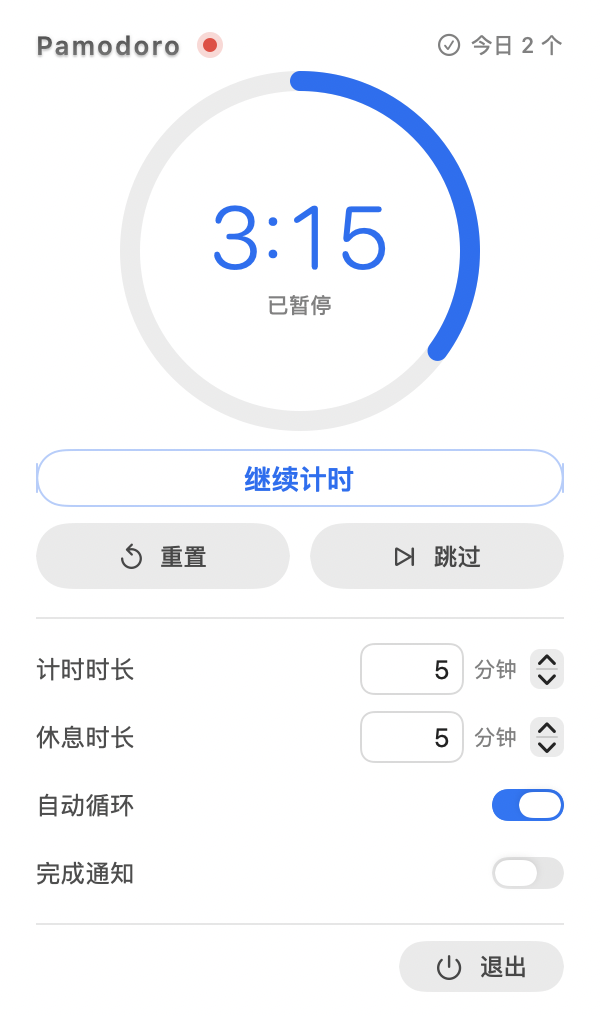
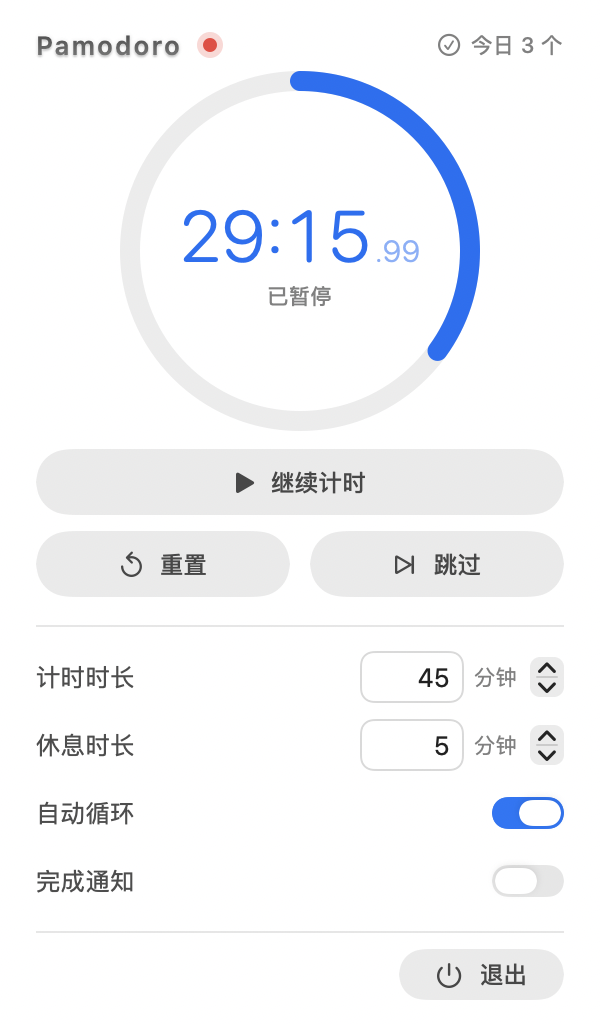
开始按钮与次级按钮统一胶囊样式；状态栏换成 8bit 像素计时器与咖啡杯

diff --git a/Sources/main.swift b/Sources/main.swift
@@ -41,12 +41,10 @@ final class AppDelegate: NSObject, NSApplicationDelegate, NSPopoverDelegate {
     private static var statusItemLength: CGFloat {
         let font = NSFont.monospacedDigitSystemFont(ofSize: 12.5, weight: .regular)
         let textWidth = ceil(NSAttributedString(string: "888:88", attributes: [.font: font]).size().width)
-        let emojiWidth = ceil(NSAttributedString(string: "☕ ", attributes: [.font: font]).size().width)
         let timerIconWidth = ceil(StatusIcon.timer.size.width)
-        // 计时态：图标 + 时间；休息态：咖啡 emoji + 时间
-        let runningWidth = timerIconWidth + textWidth
-        let restWidth = emojiWidth + textWidth
-        return max(runningWidth, restWidth) + 20
+        let coffeeIconWidth = ceil(StatusIcon.coffee.size.width)
+        // 两种状态都是「图标 + 时间」，取更宽的一档
+        return max(timerIconWidth, coffeeIconWidth) + textWidth + 20
     }
 
     // MARK: - 状态栏
@@ -56,12 +54,14 @@ final class AppDelegate: NSObject, NSApplicationDelegate, NSPopoverDelegate {
 
         let isRest = engine.phase == .rest
         let timeText = PomodoroEngine.format(engine.remaining)
-        let title = isRest ? "☕ \(timeText)" : timeText
-        if title != lastTitle {
-            lastTitle = title
+        if timeText != lastTitle {
+            lastTitle = timeText
             let font = NSFont.monospacedDigitSystemFont(ofSize: 12.5, weight: .regular)
-            button.attributedTitle = NSAttributedString(string: title, attributes: [.font: font])
-            button.image = isRest ? nil : StatusIcon.timer
+            button.attributedTitle = NSAttributedString(string: " " + timeText, attributes: [.font: font])
+        }
+        let icon = isRest ? StatusIcon.coffee : StatusIcon.timer
+        if button.image !== icon {
+            button.image = icon
         }
         button.toolTip = "番茄钟 · \(engine.stateCaption)"
     }
@@ -251,6 +251,31 @@ final class AppDelegate: NSObject, NSApplicationDelegate, NSPopoverDelegate {
                 NSLog("POMODORO_QUIT sound-then-terminate")
                 self?.quitWithSound()
             }
+        }
+
+
+        if let prefix = env["POMODORO_DUMP_ICONS"] {
+            let icons: [(String, NSImage)] = [("timer", PixelIcon.timer), ("coffee", PixelIcon.coffee)]
+            for (name, icon) in icons {
+                let scale: CGFloat = 8
+                let size = NSSize(width: icon.size.width * scale, height: icon.size.height * scale)
+                let rep = NSBitmapImageRep(bitmapDataPlanes: nil,
+                                           pixelsWide: Int(size.width), pixelsHigh: Int(size.height),
+                                           bitsPerSample: 8, samplesPerPixel: 4, hasAlpha: true,
+                                           isPlanar: false, colorSpaceName: .deviceRGB,
+                                           bytesPerRow: 0, bitsPerPixel: 0)!
+                NSGraphicsContext.saveGraphicsState()
+                NSGraphicsContext.current = NSGraphicsContext(bitmapImageRep: rep)
+                NSGraphicsContext.current?.shouldAntialias = false
+                NSColor.white.setFill()
+                NSRect(origin: .zero, size: size).fill()
+                icon.draw(in: NSRect(origin: .zero, size: size))
+                NSGraphicsContext.restoreGraphicsState()
+                if let png = rep.representation(using: .png, properties: [:]) {
+                    try? png.write(to: URL(fileURLWithPath: "\(prefix)-\(name).png"))
+                }
+            }
+            NSLog("POMODORO_DUMP_ICONS wrote \(prefix)-*.png")
         }
 
         if let prefix = env["POMODORO_DUMP_SFX"] {

diff --git a/Sources/PixelIcon.swift b/Sources/PixelIcon.swift
@@ -1,0 +1,86 @@
+import AppKit
+
+/// 8-bit 像素图标：用 16×16 的字符画定义，渲染成模板位图（每格 2×2 设备像素，2x 屏上不模糊）。
+enum PixelIcon {
+
+    /// 计时器
+    static let timer = make(timerArt)
+
+    /// 冒热气的咖啡杯
+    static let coffee = make(coffeeArt)
+
+    // MARK: - 字符画
+
+    private static let timerArt: [String] = [
+        "................",
+        "......####......",
+        "......####......",
+        "....########....",
+        "...##########...",
+        "..####....####..",
+        "..###......###..",
+        "..##........##..",
+        "..##...##...##..",
+        "..##...##...##..",
+        "..##........##..",
+        "..###......###..",
+        "...####..####...",
+        "....########....",
+        ".....######.....",
+        "................",
+    ]
+
+    private static let coffeeArt: [String] = [
+        "....#.....#.....",
+        ".....#.....#....",
+        "................",
+        "..############..",
+        "..############..",
+        "..############.##",
+        "..############..#",
+        "..############..#",
+        "..############.##",
+        "...##########...",
+        "....########....",
+        "...##########...",
+        "..############..",
+        "................",
+        "................",
+        "................",
+    ]
+
+    // MARK: - 渲染
+
+    private static func make(_ art: [String]) -> NSImage {
+        let height = art.count
+        let width = art.first?.count ?? 16
+        let scale = 2   // 每格 2×2 设备像素：16pt 图形在 2x 屏上正好 32px
+
+        let rep = NSBitmapImageRep(bitmapDataPlanes: nil,
+                                   pixelsWide: width * scale,
+                                   pixelsHigh: height * scale,
+                                   bitsPerSample: 8, samplesPerPixel: 4, hasAlpha: true,
+                                   isPlanar: false, colorSpaceName: .deviceRGB,
+                                   bytesPerRow: 0, bitsPerPixel: 0)!
+        rep.size = NSSize(width: CGFloat(width), height: CGFloat(height))
+
+        NSGraphicsContext.saveGraphicsState()
+        NSGraphicsContext.current = NSGraphicsContext(bitmapImageRep: rep)
+        NSGraphicsContext.current?.shouldAntialias = false
+        NSColor.black.setFill()
+
+        for (row, line) in art.enumerated() {
+            for (col, ch) in line.enumerated() where ch == "#" {
+                NSRect(x: CGFloat(col), y: CGFloat(height - 1 - row),
+                       width: 1, height: 1).fill()
+            }
+        }
+
+        NSGraphicsContext.restoreGraphicsState()
+
+        let image = NSImage(size: NSSize(width: CGFloat(width), height: CGFloat(height)))
+        image.addRepresentation(rep)
+        image.isTemplate = true
+        return image
+    }
+}

diff --git a/Sources/StatusIcon.swift b/Sources/StatusIcon.swift
@@ -1,39 +1,7 @@
 import AppKit
 
-/// 菜单栏用的计时器图标：与 App logo 同源（表盘 + 表冠 + 指针），
-/// 以模板图渲染，自动跟随菜单栏深浅色与高亮反色。
+/// 菜单栏图标：8-bit 像素风格的计时器 / 咖啡杯（模板图，跟随菜单栏深浅色与高亮反色）
 enum StatusIcon {
-
-    static let timer: NSImage = {
-        let size = NSSize(width: 17, height: 17)
-        let image = NSImage(size: size, flipped: false) { _ in
-            NSColor.black.setStroke()
-            NSColor.black.setFill()
-
-            // 表盘
-            let dial = NSBezierPath(ovalIn: NSRect(x: 2.7, y: 1.7, width: 11.6, height: 11.6))
-            dial.lineWidth = 1.5
-            dial.stroke()
-
-            // 顶部表冠
-            let crown = NSBezierPath(roundedRect: NSRect(x: 6.9, y: 13.3, width: 3.2, height: 2.3),
-                                     xRadius: 0.8, yRadius: 0.8)
-            crown.fill()
-
-            // 指针（指向 12 点）
-            let hand = NSBezierPath()
-            hand.move(to: NSPoint(x: 8.5, y: 7.5))
-            hand.line(to: NSPoint(x: 8.5, y: 11.2))
-            hand.lineWidth = 1.5
-            hand.lineCapStyle = .round
-            hand.stroke()
-
-            // 中心轴
-            NSBezierPath(ovalIn: NSRect(x: 7.75, y: 6.75, width: 1.5, height: 1.5)).fill()
-
-            return true
-        }
-        image.isTemplate = true
-        return image
-    }()
+    static var timer: NSImage { PixelIcon.timer }
+    static var coffee: NSImage { PixelIcon.coffee }
 }

diff --git a/Sources/PopoverView.swift b/Sources/PopoverView.swift
@@ -199,32 +199,14 @@ struct PopoverView: View {
 
     private var primaryButton: some View {
         Button(action: startOrPause) {
-            Text(engine.primaryTitle)
-                .font(.system(size: 14, weight: .semibold))
+            Label(engine.primaryTitle, systemImage: engine.isRunning ? "pause.fill" : "play.fill")
+                .font(.system(size: 12, weight: .medium))
                 .frame(maxWidth: .infinity)
-                .padding(.vertical, 6)
+                .padding(.vertical, 3)
         }
-        .buttonStyle(FillButtonStyle(tint: tint))
-    }
-
-    /// 浅色底 + 彩色字 + 细描边；保留按压缩放反馈
-    private struct FillButtonStyle: ButtonStyle {
-        let tint: Color
-
-        func makeBody(configuration: Configuration) -> some View {
-            configuration.label
-                .foregroundStyle(tint)
-                .background(
-                    Capsule().fill(Color(nsColor: .textBackgroundColor))
-                )
-                .overlay(
-                    Capsule().strokeBorder(tint.opacity(0.35), lineWidth: 1)
-                )
-                .contentShape(Capsule())
-                .opacity(configuration.isPressed ? 0.82 : 1)
-                .scaleEffect(configuration.isPressed ? 0.985 : 1)
-                .animation(.easeOut(duration: 0.12), value: configuration.isPressed)
-        }
+        .buttonStyle(.bordered)
+        .controlSize(.large)
+        .clipShape(Capsule())
     }
 
     private var secondaryButtons: some View {

diff --git a/README.md b/README.md
@@ -70,7 +70,7 @@ open /Applications/Pomodoro.app
 
 ## 功能
 
-- **菜单栏常驻倒计时**：计时状态是计时器图标 + `24:59`，休息状态换成 `☕ 4:10`，等宽数字不跳动
+- **菜单栏常驻倒计时**：计时状态是 8-bit 像素计时器 + `24:59`，休息状态换成冒热气的像素咖啡杯 + `4:10`，等宽数字不跳动
 - **毫秒显示**：面板里秒后面跟两位毫秒（`29:13.99`，50fps 刷新）；状态栏仍只显示到秒
 - **点击开面板**：环形进度、大号等宽时间、胶囊按钮；右键图标可直接退出
 - **点击表盘**：直接点圆形表盘即可开始 / 暂停 / 继续（悬停时光标变手型、状态文字提示当前动作）
@@ -116,7 +116,8 @@ rm -rf /Applications/Pomodoro.app
   计时器图标是按 App logo 同源绘制的模板图（`StatusIcon`），自动跟随菜单栏深浅色与高亮反色。
 - **面板**：`NSPopover` + SwiftUI。`NSPopover` 自带的菜单栏定位会把面板顶出屏幕上沿
   （顶部被裁），因此另做了屏幕几何校正，把面板夹在图标正下方与可见区域内。
-- **状态栏图标**：emoji —— 计时 ⌛、休息 ☕。
+- **状态栏图标**：8-bit 像素风模板图（16×16 字符画渲染，每格 2×2 设备像素）——
+  计时是像素计时器、休息是冒热气的像素咖啡杯，自动跟随菜单栏深浅色与高亮反色。
 - **App 图标**：Braun / Sony 那一路的工业设计语言——哑光炭黑圆角底、米白表盘、
   方头刻度、橙色秒针、顶部表冠；由 `Scripts/make-icon.swift` 离屏绘制并 `iconutil` 打包。
 - **统一配色**：表盘与主按钮在任何状态都是「浅色底 + 强调色文字 + 细描边」，
